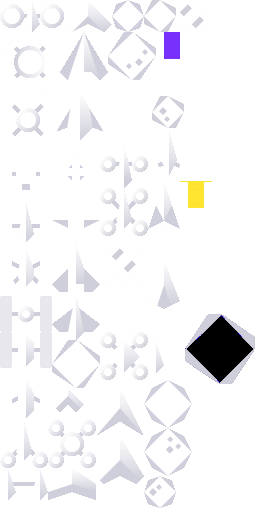
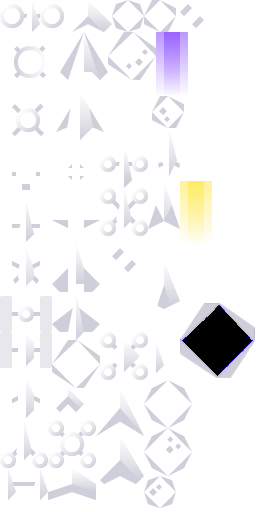
PLanets now in vector. Added rocket exhaust.

Changed region(s): [[0.6875, 0.5938, 1.0, 0.75], [0.6875, 0.3438, 0.8438, 0.4688], [0.5938, 0.0625, 0.75, 0.1875]]

diff --git a/Game.cpp b/Game.cpp
@@ -19,10 +19,11 @@
 std::vector<Attractor*> attractors;
 std::vector<Collidable*> collidables;
 std::vector<Object*> objects;
-const double planetmass = 1.0/1000000000000000000.0;
 Spaceship spaceship(planetmass/1);
-Planet planet2(planetmass);
-Planet planet(planetmass);
+Object engineplume;
+std::vector<Planet*> planets;
+//Planet planet2(planetmass);
+//Planet planet(planetmass);
 Blackhole blackhole(1);
 const int nrofbackgroundstars = 100;
 std::array<Backgroundstar,nrofbackgroundstars> backgroundstars;
@@ -113,28 +114,7 @@ void get_text_and_rect(SDL_Renderer* renderer, int x, int y, char* text,
 //SDL_Rect robot_srcRect, robot_destRect;
 Game::Game():window(nullptr),renderer(nullptr)
 {
-    // Inte sa snygg design det har...
-    attractors.push_back(&blackhole);
-    attractors.push_back(&planet);
-    attractors.push_back(&planet2);
-    attractors.push_back(&spaceship);
-    blackhole.pattractors = &attractors;
-    planet.pattractors = &attractors;
-    planet2.pattractors = &attractors;
-    spaceship.pattractors = &attractors;
-    collidables.push_back(&planet);
-    collidables.push_back(&planet2);
-    collidables.push_back(&spaceship);
-
-    objects.push_back(&planet);
-    objects.push_back(&planet2);
-    objects.push_back(&spaceship);
-
-    blackhole.pobjects = &objects;
-    planet.pcollidables = &collidables;
-    planet2.pcollidables = &collidables;
-    spaceship.pcollidables = &collidables;
-
+//    ResetGame();
 
 }
 
@@ -215,15 +195,15 @@ void Game::ResetGame()
 {
 	showtitlescreen = false;
 	showstatustext = false;
-	char buff[100];
-	std::sprintf(buff, "Level %i", level);
-	get_text_and_rect(renderer, 0, 0, buff, font, &fonttexture1, &fontrect1);
-	std::sprintf(buff, "Lives %i", lives);
-	get_text_and_rect(renderer, 0, fontrect1.h, buff, font, &fonttexture2, &fontrect2);
-	robottimer = 0.0;
-	double planealtitude = 10 * level;
-	std::sprintf(buff, "ALT: %.0f", planealtitude);
-	get_text_and_rect(renderer, (SCREENWIDTH / 2) - (fontrect1.w/2), SCREENHEIGHT - fontrect1.h, buff, font, &fonttexture4, &fontrect4);
+//	char buff[100];
+//	std::sprintf(buff, "Level %i", level);
+//	get_text_and_rect(renderer, 0, 0, buff, font, &fonttexture1, &fontrect1);
+//	std::sprintf(buff, "Lives %i", lives);
+//	get_text_and_rect(renderer, 0, fontrect1.h, buff, font, &fonttexture2, &fontrect2);
+//	robottimer = 0.0;
+//	double planealtitude = 10 * level;
+//	std::sprintf(buff, "ALT: %.0f", planealtitude);
+//	get_text_and_rect(renderer, (SCREENWIDTH / 2) - (fontrect1.w/2), SCREENHEIGHT - fontrect1.h, buff, font, &fonttexture4, &fontrect4);
     const int meteorwidth = 48;
     const int meteorheight = 48;
     const double planetradius = 1;
@@ -233,28 +213,34 @@ void Game::ResetGame()
 
     // Inte sa snygg design det har...
     attractors.clear();
-    objects.clear();
     collidables.clear();
+    objects.clear();
+    for (auto p: planets)
+    {
+        delete p;
+    }
+    planets.clear();
+    planets.push_back(new Planet());
+    planets.push_back(new Planet());
+    for (auto p: planets)
+    {
+        attractors.push_back(p);
+        p->pattractors = &attractors;
+        collidables.push_back(p);
+        p->pcollidables = &collidables;
+        objects.push_back(p);
+        p->reset();
+    }
     attractors.push_back(&blackhole);
-    attractors.push_back(&planet);
-    attractors.push_back(&planet2);
     attractors.push_back(&spaceship);
     blackhole.pattractors = &attractors;
-    planet.pattractors = &attractors;
-    planet2.pattractors = &attractors;
     spaceship.pattractors = &attractors;
-    collidables.push_back(&planet);
-    collidables.push_back(&planet2);
     collidables.push_back(&spaceship);
-
-    objects.push_back(&planet);
-    objects.push_back(&planet2);
     objects.push_back(&spaceship);
-
     blackhole.pobjects = &objects;
-    planet.pcollidables = &collidables;
-    planet2.pcollidables = &collidables;
     spaceship.pcollidables = &collidables;
+
+    
     // Stable three body system https://math.stackexchange.com/questions/1613765/simple-stable-n-body-orbits-in-the-plane-with-some-fixed-bodies-allowed
     // Place black hole in middle of world
     double Gconstant = 1.0;
@@ -264,10 +250,10 @@ void Game::ResetGame()
     double orbitdist2 = 2.0;
     double orbitalV2 = std::sqrt((Gconstant * blackhole.mass)/orbitdist2);
     blackhole.reset();
-    blackhole.srcrect.x = 184;
-    blackhole.srcrect.y = 313;
-    blackhole.srcrect.h = 71;
-    blackhole.srcrect.w = 71;
+    blackhole.srcrect.x = 180;
+    blackhole.srcrect.y = 303;
+    blackhole.srcrect.h = 75;
+    blackhole.srcrect.w = 75;
 	blackhole.init("../simpleSpace_sheet.png", renderer);
     blackhole.movementworldZ = 0.0;
     const int blackholeradius = planetradius * 2.0;
@@ -280,36 +266,37 @@ void Game::ResetGame()
     blackhole.movementworldY = 0.0;//-0.0/std::sqrt(2.0);
     blackhole.movementrotation = 0.1 * M_PI;
 
-    planet.reset();
-    planet.srcrect.x = 108;
-    planet.srcrect.y = 32;
-    planet.srcrect.h = meteorheight;
-    planet.srcrect.w = meteorwidth;
-    planet.init(blackhole.texture);
-    planet.sizeX = planetradius;
-    planet.sizeY = planetradius;
-    planet.sizeZ = planetradius;
-    planet.posX = 0.0;
-    planet.posY = 0.0;
-    planet.posZ = orbitdist;
-    planet.movementworldY = 0.0;//orbitalV;//1.0/std::sqrt(2.0);
-    planet.movementrotation = M_PI * 2.0;
+
+    planets.at(0)->srcrect.x = 108;
+    planets.at(0)->srcrect.y = 32;
+    planets.at(0)->srcrect.h = meteorheight;
+    planets.at(0)->srcrect.w = meteorwidth;
+    planets.at(0)->init(blackhole.texture);
+    planets.at(0)->sizeX = planetradius;
+    planets.at(0)->sizeY = planetradius;
+    planets.at(0)->sizeZ = planetradius;
+    planets.at(0)->posX = 0.0;
+    planets.at(0)->posY = 0.0;
+    planets.at(0)->posZ = orbitdist;
+    planets.at(0)->movementworldY = 0.0;//orbitalV;//1.0/std::sqrt(2.0);
+    planets.at(0)->movementrotation = M_PI * 1.0;
+    planets.at(0)->draw = true;
 
 
-    planet2.reset();
-    planet2.srcrect.x = 144;
-    planet2.srcrect.y = 380;
-    planet2.srcrect.h = meteorheight;
-    planet2.srcrect.w = meteorwidth;
-    planet2.init(blackhole.texture);
-    planet2.sizeX = planetradius;
-    planet2.sizeY = planetradius;
-    planet2.sizeZ = planetradius;
-    planet2.posX = 0.0;
-    planet2.posY = 0.0;
-    planet2.posZ = -orbitdist2;
-    planet2.movementworldY = -orbitalV2 * 1.0;//1.0/std::sqrt(2.0);
-    planet2.movementrotation = M_PI * 1.5;
+    planets.at(1)->srcrect.x = 144;
+    planets.at(1)->srcrect.y = 380;
+    planets.at(1)->srcrect.h = meteorheight;
+    planets.at(1)->srcrect.w = meteorwidth;
+    planets.at(1)->init(blackhole.texture);
+    planets.at(1)->sizeX = planetradius;
+    planets.at(1)->sizeY = planetradius;
+    planets.at(1)->sizeZ = planetradius;
+    planets.at(1)->posX = 0.0;
+    planets.at(1)->posY = 0.0;
+    planets.at(1)->posZ = -orbitdist2;
+    planets.at(1)->movementworldY = -orbitalV2 * 1.0;//1.0/std::sqrt(2.0);
+    planets.at(1)->movementrotation = M_PI * 0.5;
+    planets.at(1)->draw = true;
 
     spaceship.reset();
     spaceship.srcrect.x = 96;
@@ -365,6 +352,24 @@ void Game::ResetGame()
         backgroundstars.at(i).posX = 700 - (rand() % 400);
     }
 
+    // Rocket engine exhaust
+    engineplume.reset();
+    engineplume.srcrect.x = 156;
+    engineplume.srcrect.y = 32;
+    engineplume.srcrect.h = 64;
+    engineplume.srcrect.w = 32;
+    engineplume.init(blackhole.texture);
+    engineplume.sizeX = planetradius/2;
+    engineplume.sizeY = planetradius*2/2;
+    engineplume.sizeZ = planetradius/2;
+    engineplume.posX = 0.0;
+    engineplume.posY = 0.0;
+    engineplume.posZ = 0.0;
+    engineplume.movementworldY = 0.0;//1.0/std::sqrt(2.0);
+    engineplume.movementrotation = 0.0;
+    engineplume.draw = true;
+    
+    
     // Camera position
     camera.reset();
 	camera.posX = -100.0; // Zoomed out
@@ -481,9 +486,21 @@ void Game::update(double deltatime)
 	        camera.movementworldX += cameracceleration * deltatime;
 	        camera.update(deltatime);
 	        blackhole.update(deltatime);
-	        planet.update(deltatime);
-	        planet2.update(deltatime);
+	        for (auto & p:planets)
+            {
+	            p->update(deltatime);
+            }
 	        spaceship.update(deltatime);
+	        engineplume.posY = spaceship.posY;
+	        engineplume.posX = spaceship.posX;
+	        engineplume.posZ = spaceship.posZ;
+	        engineplume.rotation = spaceship.rotation;
+	        engineplume.orientation = spaceship.orientation;
+	        engineplume.posY -= spaceship.orientation.getY()[1] * engineplume.sizeY/1.2;
+	        engineplume.posZ -= spaceship.orientation.getY()[2] * engineplume.sizeY/1.2;
+	        engineplume.draw = false;
+//        engineplume.posY += spaceship.orientation.getY() * engineplume.sizeY/2;
+        //engineplume.update(deltatime);
 	        const double spaceshipeasyaccel = 1.0;
 	        const double spaceshipturnspeed = M_PI_2;
         const Uint8* keystates = SDL_GetKeyboardState(NULL);
@@ -499,10 +516,11 @@ void Game::update(double deltatime)
             spaceship.movementworldX += spaceship.orientation.getY()[0] * spaceshipeasyaccel * deltatime;
             spaceship.movementworldY += spaceship.orientation.getY()[1] * spaceshipeasyaccel * deltatime;
             spaceship.movementworldZ += spaceship.orientation.getY()[2] * spaceshipeasyaccel * deltatime;
+            engineplume.draw = true;
 //            spaceship.movementselfY += spaceshipeasyaccel * deltatime;
         }
         if (keystates[SDL_SCANCODE_S] || keystates[SDL_SCANCODE_DOWN]) {
-            spaceship.movementselfY -= spaceshipeasyaccel * deltatime;
+            // lets dont have reversing spaceship.movementselfY -= spaceshipeasyaccel * deltatime;
         }
         if (!spaceship.draw)
         {
@@ -546,10 +564,15 @@ void Game::render()
             a.render(renderer, camera);
         }
 		blackhole.render(renderer, camera);
-		planet.render(renderer, camera);
-		planet2.render(renderer, camera);
-		auto spaceshiponscreen = spaceship.render(renderer, camera);
-		switch (spaceshiponscreen)
+        engineplume.render(renderer, camera);
+        auto isonscreen = Object::onscreen;
+        for (auto & p:objects)
+        {
+            auto os = p->render(renderer, camera);
+            if (os != Object::onscreen)
+                isonscreen = os;
+        }
+		switch (isonscreen)
         {
 
             case Object::onscreen:
@@ -570,9 +593,6 @@ void Game::render()
                 break;
         }
 		char buff[1024];
-		double dx = blackhole.posX - planet.posX;
-        double dy = blackhole.posY - planet.posY;
-        double dz = blackhole.posZ - planet.posZ;
 
 		std::sprintf(buff,"Score: %i",Consumer::getscore());
         get_text_and_rect(renderer, 10, 10, buff, font, &fonttexture1, &fontrect1);
@@ -667,8 +687,10 @@ void Game::clean()
 {
 	// Needs to destroy these so texture is destroyed before renderer... :|
 	blackhole.~Blackhole();
-	planet.~Planet();
-	planet2.~Planet();
+	for (auto p:planets)
+    {
+	    p->~Planet();
+    }
 	spaceship.~Spaceship();
 	
 	if (renderer) {

diff --git a/Attractor.cpp b/Attractor.cpp
@@ -12,16 +12,21 @@ Attractor::Attractor(Object * obj, double mass):pobject(obj), mass(mass) {
 void Attractor::update(double deltatime) {
     for (auto a : *pattractors)
     {
-        if (a->pobject != this->pobject)
+        if (a->pobject != this->pobject && this->pobject->draw)
         {
             double dx = a->pobject->posX - this->pobject->posX;
             double dy = a->pobject->posY - this->pobject->posY;
             double dz = a->pobject->posZ - this->pobject->posZ;
             double dist = std::sqrt(dx*dx+dy*dy+dz*dz);
+//            if (dx == 0 || dy == 0 || dz == 0 || dist == 0)
+//                continue;
             double magi = a->mass/(dist*dist*dist);
             this->pobject->movementworldX += magi * dx * deltatime;
             this->pobject->movementworldY += magi * dy * deltatime;
             this->pobject->movementworldZ += magi * dz * deltatime;
+            assert(!isnan(this->pobject->movementworldX));
+            assert(!isnan(this->pobject->movementworldY));
+            assert(!isnan(this->pobject->movementworldZ));
         }
     }
 }

diff --git a/Planet.h b/Planet.h
@@ -9,8 +9,10 @@
 #include "Collidable.h"
 #include "Attractor.h"
 
+const double planetmass = 1.0/1000000000000000000.0;
 class Planet : public Object, public Attractor, public Collidable {
 public:
+    Planet():Planet(planetmass){};
     Planet(double mass);
     void update(double deltatime);
 };

diff --git a/Spaceship.cpp b/Spaceship.cpp
@@ -5,7 +5,6 @@
 #include "Spaceship.h"
 
 Spaceship::Spaceship(double mass) : Attractor(this, mass), Collidable(this, mass) {
-    this->isplayer = true;
 }
 
 void Spaceship::update(double deltatime) {

diff --git a/Object.h b/Object.h
@@ -45,7 +45,6 @@ public:
 
 	void init(SDL_Texture *tex);
 	bool draw = true;
-	bool isplayer = false;
 	void reset();
 };
 
